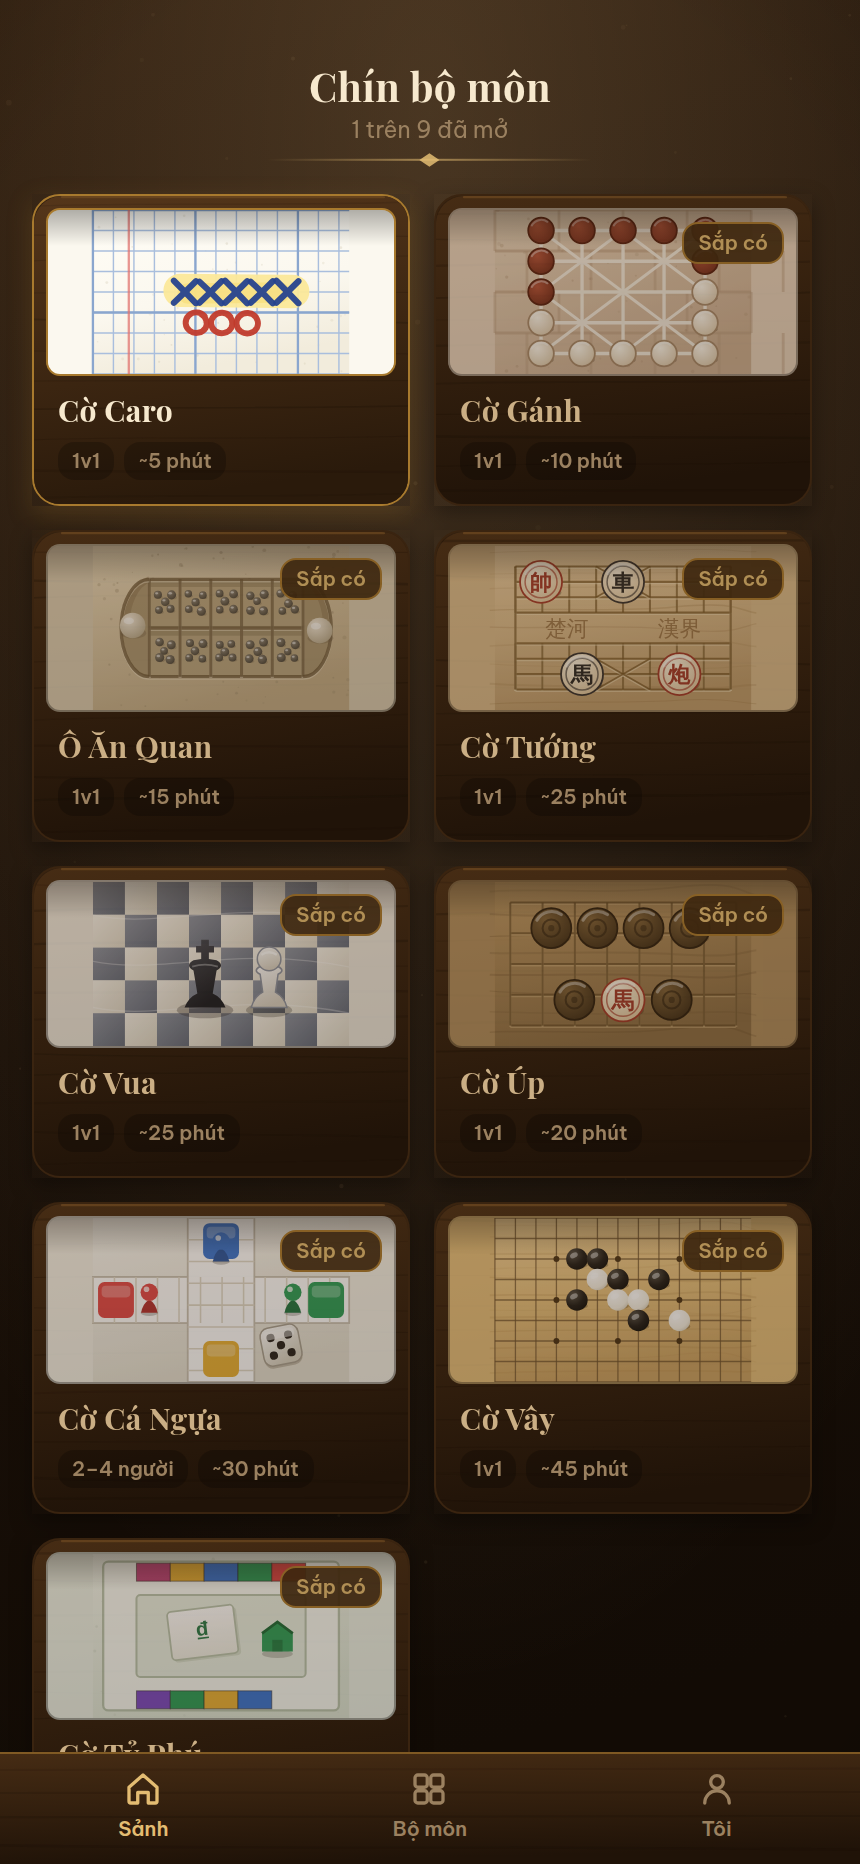
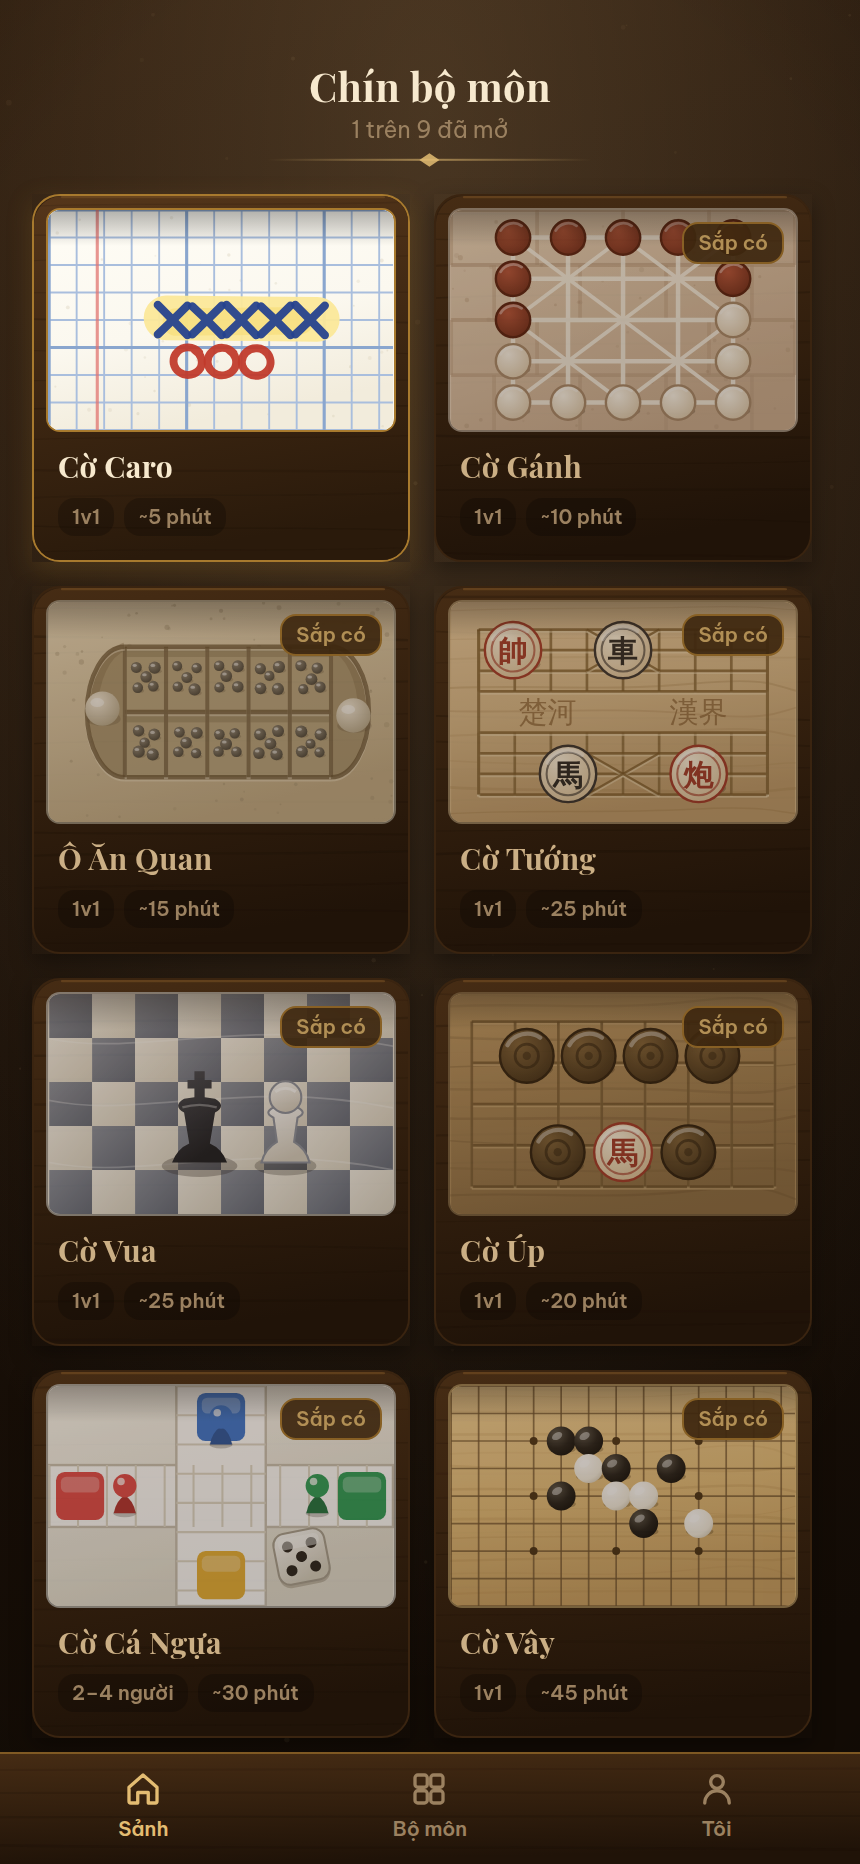
Bỏ khung vuông thừa bên trong khung bo góc của thẻ bộ môn
Hình vẽ theo tỉ lệ 100:64 nhưng khung ảnh đặt chiều cao cố định 84px. Hai
tỉ lệ khác nhau nên hình co lại cho vừa chiều cao rồi hở ra hai bên, và
chỗ hở lộ nền phẳng của thẻ — mắt đọc thành một cái khung vuông thứ hai
nằm trong khung bo góc.

Khung ảnh giờ khai tỉ lệ đúng bằng tỉ lệ hình, không khai chiều cao, nên
hình tràn kín tới mép và bốn góc bo được cắt gọn.

diff --git a/apps/mobile/app/index.tsx b/apps/mobile/app/index.tsx
@@ -184,7 +184,11 @@ function GameCard({
         <View style={{ padding: 6 }}>
           <View
             style={{
-              height: 84,
+              // Khung ảnh phải đúng tỉ lệ 100:64 của hình, không đặt chiều
+              // cao cố định. Lệch tỉ lệ thì hình co lại cho vừa chiều cao và
+              // hở ra hai bên; chỗ hở lộ nền phẳng của thẻ, thành một cái
+              // khung vuông thứ hai nằm bên trong khung bo góc.
+              aspectRatio: 100 / 64,
               borderRadius: 7,
               overflow: 'hidden',
               backgroundColor: face.surface,
